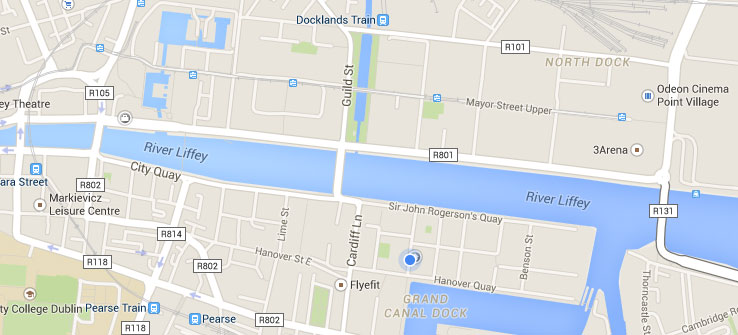
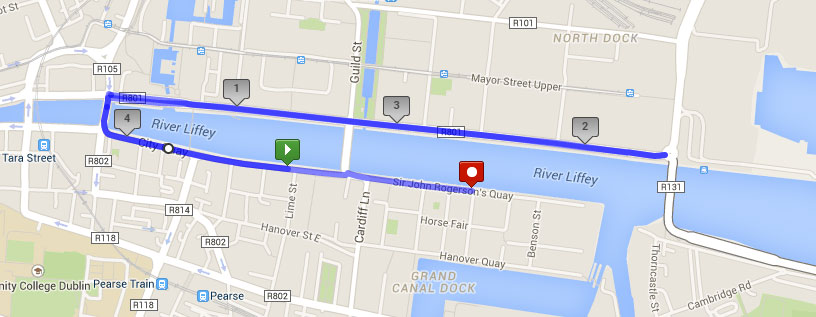
Added route map and text

diff --git a/index.html b/index.html
@@ -99,6 +99,10 @@ Team categories are Male only Teams, Female only Teams and Mixed Teams. Prizes f
           <figure>
             &nbsp;
           </figure>
+
+          <div class="col-xs-12">
+            The race will be held on Thursday, June 18th, starting at 7:30. The race starts on the South Docks at Lime Street which is very near to the Samuel Beckett Bridge - that’s the one almost opposite the Convention Centre. From there you will head towards the City Centre all the way to the Matt Talbot bridge which you will cross over to the North Quay. From there you will run all the way down to the 3 Arena where you will loop back down the North Quay again towards the Matt Talbot Bridge. There you will cross the bridge again and back to the South Quay. From there you will run back past the Start line. The Finish line is approx. 500 metres beyond the Start line and you will finish at Sir John Rogerson’s Quay. You are then just a small stroll away from the bag drop area in Grand Canal Square and that well deserved night out!!
+          </div>
         </section>
       </div>
 

diff --git a/dist/css/styles.css b/dist/css/styles.css
@@ -440,12 +440,20 @@ a:hover {
 .container-fluid #route section {
   padding: 0 0 0 0;
 }
+.container-fluid #route section > div {
+  padding: 20px 0;
+}
 .container-fluid #route figure {
   background-image: url('/images/map.jpg');
   background-size: cover;
   background-repeat: no-repeat;
   width: 100%;
   height: 300px;
+}
+@media (max-width: 480px) {
+  .container-fluid #route figure {
+    height: 150px;
+  }
 }
 .container-fluid #sponsors {
   background: #282927;

diff --git a/less/styles.less b/less/styles.less
@@ -217,6 +217,10 @@ a {
 
 		section {
 			padding: 0 0 0 0;
+
+			> div {
+				padding: 20px 0;
+			}
 		}
 
 		figure {
@@ -225,6 +229,10 @@ a {
 			background-repeat: no-repeat;
 			width: 100%;
 			height: 300px;
+
+			@media (max-width: @screen-xs-min) {
+				height: 150px;
+			}
 		}
 	}
 
